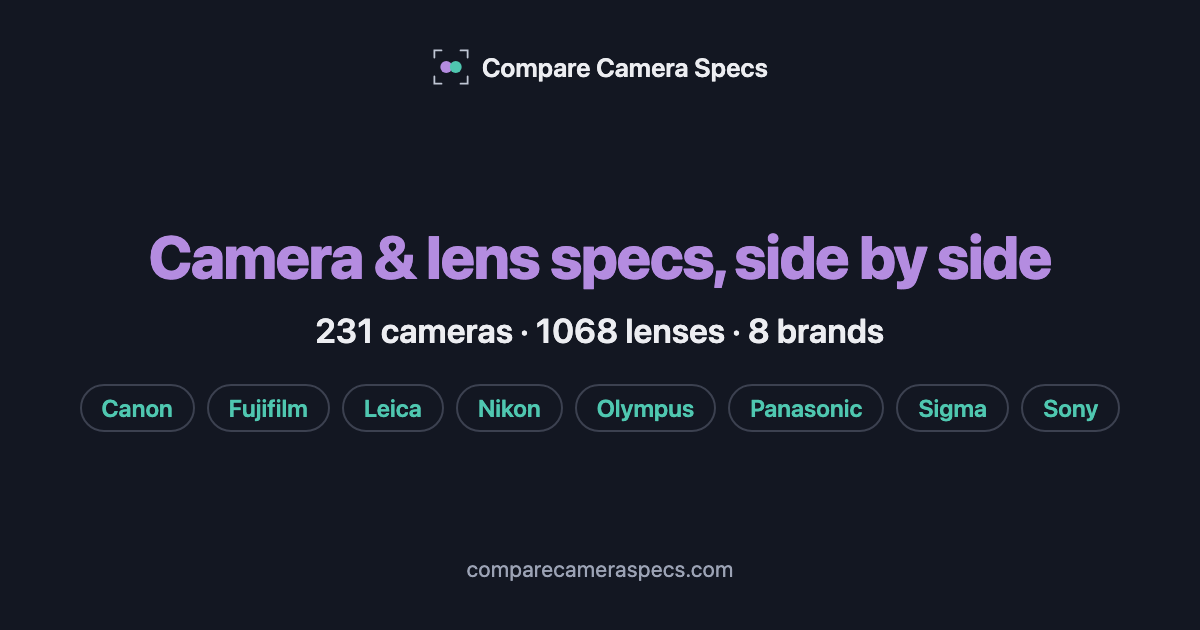
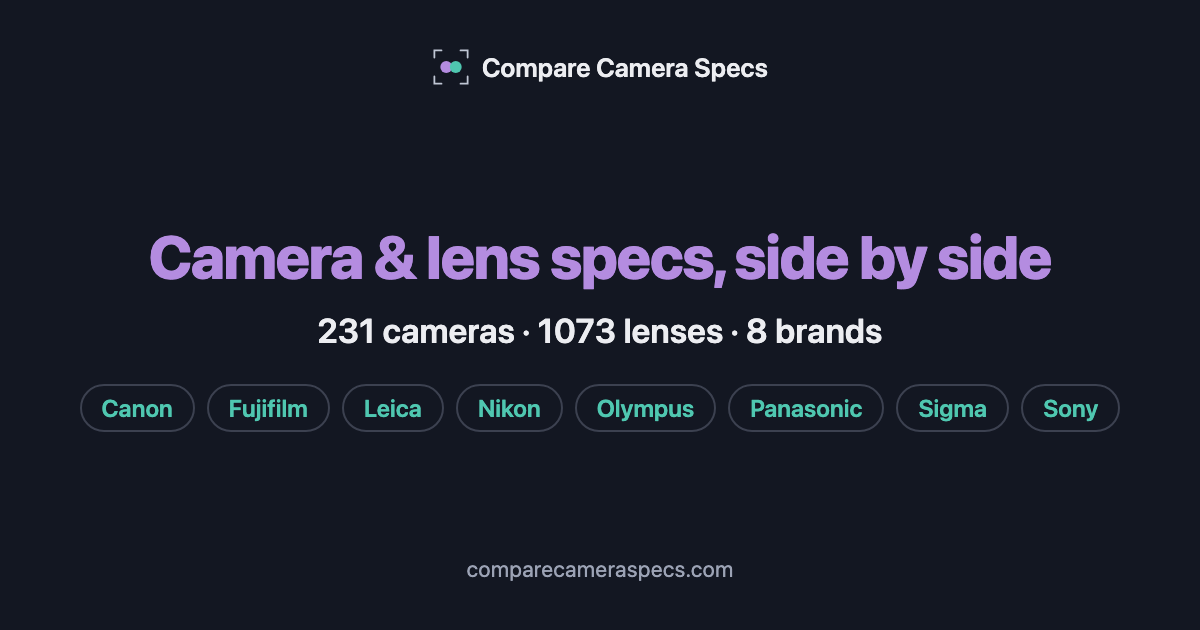
Nikon: add Voigtländer Nokton 75/1.5 + Classic 35/1.4 and Zeiss Otus ML Z
- Voigtländer Nokton 75mm f/1.5 and Nokton Classic 35mm f/1.4 (Z) from
  Cosina's EN Z-mount pages; USD from B&H.
- Zeiss Otus ML 35/50/85 (Z) from Zeiss's per-mount technical data;
  new Zeiss dropdown group; images gapped as on sony/.
- sony zeiss-otus-ml-35mm-f14: year 2025 -> 2026 (announced 2026-02-24).

Claude-Session: https://claude.ai/code/session_01FYKXhtYCHKNL3CJLW6oPDG

Changed region(s): [[0.2467, 0.4825, 0.74, 0.5429]]

diff --git a/nikon/data.js b/nikon/data.js
@@ -2897,6 +2897,87 @@ const LENSES = {
     priceIncomplete:true, productUrl:'https://www.cosina.co.jp/voigtlander/en/z-mount/portrait-heliar-75mm-f1-8/',
   },
 
+  'voigtlander-nokton-75mm-f15': {
+    name:'Voigtländer Nokton 75mm f/1.5 Aspherical Z', manufacturer:'Voigtländer', line:'Nokton', type:'Prime',
+    mount:'z', focalLength:75, focalLengthMin:null, focalLengthMax:null, focalLengthEquiv:'75mm',
+    maxAperture:1.5, minAperture:32, weight:530, length:75.9, diameter:74,
+    filterThread:62, minFocusDist:50, maxMagnification:0.21,
+    elements:7, groups:6, blades:12, afType:'Manual',
+    weatherSealed:false, ois:false, oisStops:null, year:2024, discontinued:false,
+    imageUrl:'https://www.cosina.co.jp/wp/wp-content/uploads/2024/04/Z-75_15-01-cfderw.jpg',
+    imageSource: { url:'https://www.cosina.co.jp/voigtlander/en/z-mount/nokton-75mm-f1-5-aspherical/', tier:'T1', title:'Cosina Voigtländer NOKTON 75mm F1.5 Aspherical (Z-mount)', note:'the page\'s first product shot (Z-75_15-01; the P00 file is a sample photo)', date:'2026-10-21' },
+    asin:null,
+    prices:{USD:899,AUD:null,EUR:null,GBP:null,JPY:null,CAD:null,SGD:null},
+    specSources: [{ url:'https://www.cosina.co.jp/voigtlander/en/z-mount/nokton-75mm-f1-5-aspherical/', tier:'T1', title:'Cosina Voigtländer NOKTON 75mm F1.5 Aspherical (Z-mount) - official page', note:'F1.5-F32, 7 elements in 6 groups, 12 blades, 0.5m, 1:4.8, φ74.0×75.9mm, φ62 filter, 530g, full frame, electrical contacts. Year from the page\'s image upload date (April 2024)', date:'2026-10-21' }],
+    priceSource: { url:'https://www.bhphotovideo.com/c/search?q=voigtlander%20nikon%20z', tier:'T3', title:'B&H Photo - Voigtländer Nikon Z search results', note:'"Nokton 75mm f/1.5 Aspherical Lens (Nikon Z)" $899, not on sale. Cosina publishes no US price; non-USD not examined', date:'2026-10-21' },
+    priceIncomplete:true, productUrl:'https://www.cosina.co.jp/voigtlander/en/z-mount/nokton-75mm-f1-5-aspherical/',
+  },
+
+  'voigtlander-nokton-classic-35mm-f14': {
+    name:'Voigtländer Nokton Classic 35mm f/1.4 Z', manufacturer:'Voigtländer', line:'Nokton', type:'Prime',
+    mount:'z', focalLength:35, focalLengthMin:null, focalLengthMax:null, focalLengthEquiv:'35mm',
+    maxAperture:1.4, minAperture:16, weight:250, length:41.6, diameter:67.6,
+    filterThread:58, minFocusDist:27, maxMagnification:0.18,
+    elements:8, groups:6, blades:10, afType:'Manual',
+    weatherSealed:false, ois:false, oisStops:null, year:2026, discontinued:false,
+    imageUrl:'https://www.cosina.co.jp/wp/wp-content/uploads/2026/06/Z-35_14-web01juwsd.jpg',
+    imageSource: { url:'https://www.cosina.co.jp/voigtlander/en/z-mount/nokton-classic-35mm-f1-4/', tier:'T1', title:'Cosina Voigtländer NOKTON classic 35mm F1.4 (Z-mount)', note:'the page\'s first product shot (Z-35_14-web01; the P00 file is a sample photo)', date:'2026-10-21' },
+    asin:null,
+    prices:{USD:699,AUD:null,EUR:null,GBP:null,JPY:null,CAD:null,SGD:null},
+    specSources: [{ url:'https://www.cosina.co.jp/voigtlander/en/z-mount/nokton-classic-35mm-f1-4/', tier:'T1', title:'Cosina Voigtländer NOKTON classic 35mm F1.4 (Z-mount) - official page', note:'F1.4-F16, 8 elements in 6 groups, 10 blades, 0.27m, 1:5.5, φ67.6×41.6mm, φ58 filter, 250g, full frame, electrical contacts. Year from the page\'s image upload date (June 2026)', date:'2026-10-21' }],
+    priceSource: { url:'https://www.bhphotovideo.com/c/search?q=voigtlander%20nikon%20z', tier:'T3', title:'B&H Photo - Voigtländer Nikon Z search results', note:'"Nokton Classic 35mm f/1.4 Lens (Nikon Z)" $699, not on sale. Cosina publishes no US price; non-USD not examined', date:'2026-10-21' },
+    priceIncomplete:true, productUrl:'https://www.cosina.co.jp/voigtlander/en/z-mount/nokton-classic-35mm-f1-4/',
+  },
+
+  /* ── Zeiss (native Z manual focus) ── */
+  'zeiss-otus-ml-35mm-f14': {
+    name:'Zeiss Otus ML 35mm f/1.4', manufacturer:'Zeiss', line:'Otus ML', type:'Prime',
+    mount:'z', focalLength:35, focalLengthMin:null, focalLengthMax:null, focalLengthEquiv:'35mm',
+    maxAperture:1.4, minAperture:16, weight:737, length:103, diameter:77,
+    filterThread:67, minFocusDist:30, maxMagnification:0.17,
+    elements:15, groups:11, blades:null, afType:'Manual',
+    weatherSealed:false, ois:false, oisStops:null, year:2026, discontinued:false,
+    imageUrl:null,
+    asin:null,
+    prices:{USD:2299,AUD:null,EUR:null,GBP:null,JPY:null,CAD:null,SGD:null},
+    specSources: [{ url:'https://www.zeiss.com/photonics-and-optics/us/photography/products/lenses-for-mirrorless-system-cameras/otus-ml-lenses.html', tier:'T1', title:'ZEISS Otus ML lenses - official Technical Data', note:'Otus ML 1.4/35 column: f/1.4-16, 15/11, focusing range from 0.30m, filter M67, diameter max. 77mm; Z: length without caps 103mm, weight 737g (E: 101mm / 698g); MOD ratio 1:5.72; weather sealing not stated (entered false); blade count not published. Year: announced 2026-02-24 (CP+ 2026), US availability April 2026', date:'2026-10-21' }],
+    priceSource: { url:'https://www.bhphotovideo.com/c/search?q=zeiss%20otus%20ml%20nikon%20z', tier:'T3', title:'B&H Photo - Zeiss Otus ML Nikon Z search results', note:'"Otus ML 35mm f/1.4 Lens (Nikon Z)" $2,299, not on sale. Zeiss has no US web store; non-USD not examined', date:'2026-10-21' },
+    priceIncomplete:true,
+    productUrl:'https://www.zeiss.com/photonics-and-optics/us/photography/products/lenses-for-mirrorless-system-cameras/otus-ml-lenses.html',
+  },
+
+  'zeiss-otus-ml-50mm-f14': {
+    name:'Zeiss Otus ML 50mm f/1.4', manufacturer:'Zeiss', line:'Otus ML', type:'Prime',
+    mount:'z', focalLength:50, focalLengthMin:null, focalLengthMax:null, focalLengthEquiv:'50mm',
+    maxAperture:1.4, minAperture:16, weight:718, length:102, diameter:77,
+    filterThread:67, minFocusDist:50, maxMagnification:0.14,
+    elements:14, groups:11, blades:null, afType:'Manual',
+    weatherSealed:false, ois:false, oisStops:null, year:2025, discontinued:false,
+    imageUrl:null,
+    asin:null,
+    prices:{USD:2499,AUD:null,EUR:null,GBP:null,JPY:null,CAD:null,SGD:null},
+    specSources: [{ url:'https://www.zeiss.com/photonics-and-optics/us/photography/products/lenses-for-mirrorless-system-cameras/otus-ml-lenses.html', tier:'T1', title:'ZEISS Otus ML lenses - official Technical Data', note:'Otus ML 1.4/50 column: f/1.4-16, 14/11, focusing range from 0.50m, filter M67, diameter max. 77mm; Z: length without caps 102mm, weight 718g (E: 100mm / 677g); MOD ratio 1:7.3; weather sealing not stated (entered false); blade count not published. Year: launch year', date:'2026-10-21' }],
+    priceSource: { url:'https://www.bhphotovideo.com/c/search?q=zeiss%20otus%20ml%20nikon%20z', tier:'T3', title:'B&H Photo - Zeiss Otus ML Nikon Z search results', note:'"Otus ML 50mm f/1.4 Lens (Nikon Z)" $2,499, not on sale. Zeiss has no US web store; non-USD not examined', date:'2026-10-21' },
+    priceIncomplete:true,
+    productUrl:'https://www.zeiss.com/photonics-and-optics/us/photography/products/lenses-for-mirrorless-system-cameras/otus-ml-lenses.html',
+  },
+
+  'zeiss-otus-ml-85mm-f14': {
+    name:'Zeiss Otus ML 85mm f/1.4', manufacturer:'Zeiss', line:'Otus ML', type:'Prime',
+    mount:'z', focalLength:85, focalLengthMin:null, focalLengthMax:null, focalLengthEquiv:'85mm',
+    maxAperture:1.4, minAperture:16, weight:1061, length:116, diameter:88,
+    filterThread:77, minFocusDist:80, maxMagnification:0.12,
+    elements:15, groups:11, blades:null, afType:'Manual',
+    weatherSealed:false, ois:false, oisStops:null, year:2025, discontinued:false,
+    imageUrl:null,
+    asin:null,
+    prices:{USD:2999,AUD:null,EUR:null,GBP:null,JPY:null,CAD:null,SGD:null},
+    specSources: [{ url:'https://www.zeiss.com/photonics-and-optics/us/photography/products/lenses-for-mirrorless-system-cameras/otus-ml-lenses.html', tier:'T1', title:'ZEISS Otus ML lenses - official Technical Data', note:'Otus ML 1.4/85 column: f/1.4-16, 15/11, focusing range from 0.80m, filter M77, diameter max. 88mm; Z: length without caps 116mm, weight 1061g (E: 113mm / 1033g); MOD ratio 1:8.1; weather sealing not stated (entered false); blade count not published. Year: launch year', date:'2026-10-21' }],
+    priceSource: { url:'https://www.bhphotovideo.com/c/search?q=zeiss%20otus%20ml%20nikon%20z', tier:'T3', title:'B&H Photo - Zeiss Otus ML Nikon Z search results', note:'"Otus ML 85mm f/1.4 Lens (Nikon Z)" $2,999, not on sale. Zeiss has no US web store; non-USD not examined', date:'2026-10-21' },
+    priceIncomplete:true,
+    productUrl:'https://www.zeiss.com/photonics-and-optics/us/photography/products/lenses-for-mirrorless-system-cameras/otus-ml-lenses.html',
+  },
+
   /* ── Other (Yongnuo AF + budget makers) ── */
   'yongnuo-35mm-f2': {
     name:'Yongnuo YN35mm f/2Z DF DSM', manufacturer:'Yongnuo', line:'DF DSM', type:'Prime',
@@ -3498,7 +3579,8 @@ const LENS_DROPDOWN_GROUPS = [
   { label: '── Sigma ──', ids: ['sigma-16mm-f14', 'sigma-30mm-f14', 'sigma-56mm-f14'] },
   { label: '── Viltrox ──', ids: ['viltrox-13mm-f14', 'viltrox-16mm-f18', 'viltrox-27mm-f12', 'viltrox-33mm-f14', 'viltrox-56mm-f14', 'viltrox-85mm-f18-ii', 'viltrox-85mm-f20-evo', 'viltrox-85mm-f14-pro', 'viltrox-24mm-f18', 'viltrox-35mm-f18-evo', 'viltrox-40mm-f25-air', 'viltrox-90mm-f22-evo', 'viltrox-75mm-f18-evo', 'viltrox-56mm-f12-pro', 'viltrox-9mm-f28-air', 'viltrox-15mm-f17-air', 'viltrox-25mm-f17-air', 'viltrox-35mm-f17-air', 'viltrox-23mm-f14', 'viltrox-75mm-f12-pro', 'viltrox-56mm-f17-air', 'viltrox-26mm-f28-evo', 'viltrox-55mm-f18-evo', 'viltrox-50mm-f14-pro', 'viltrox-35mm-f12-lab', 'viltrox-135mm-f18-lab', 'viltrox-14mm-f4-air', 'viltrox-28mm-f45', 'viltrox-50mm-f2-air', 'viltrox-20mm-f28-air', 'viltrox-28mm-f18', 'viltrox-20mm-f18-mf'] },
   { label: '── Tamron ──', ids: ['tamron-12-20mm-f28', 'tamron-16-30mm-f28-g2', 'tamron-17-70mm-f28', 'tamron-18-300mm-f35-63', 'tamron-20-40mm-f28', 'tamron-28-75mm-f28-g2', 'tamron-35-100mm-f28', 'tamron-35-150mm-f2-28', 'tamron-50-400mm-f45-63', 'tamron-70-180mm-f28-g2', 'tamron-70-300mm-f45-63', 'tamron-90mm-f28-macro', 'tamron-150-500mm-f5-67'] },
-  { label: '── Voigtländer ──', ids: ['voigtlander-apo-lanthar-50mm-f2', 'voigtlander-nokton-40mm-f12', 'voigtlander-super-wide-heliar-15mm-f45', 'voigtlander-nokton-d23mm-f12', 'voigtlander-nokton-28mm-f15', 'voigtlander-apo-lanthar-28mm-f2', 'voigtlander-nokton-d35mm-f12', 'voigtlander-macro-apo-ultron-d35mm-f2', 'voigtlander-apo-lanthar-35mm-f2', 'voigtlander-septon-40mm-f2', 'voigtlander-nokton-50mm-f10', 'voigtlander-macro-apo-lanthar-65mm-f2', 'voigtlander-portrait-heliar-75mm-f18'] },
+  { label: '── Voigtländer ──', ids: ['voigtlander-apo-lanthar-50mm-f2', 'voigtlander-nokton-40mm-f12', 'voigtlander-super-wide-heliar-15mm-f45', 'voigtlander-nokton-d23mm-f12', 'voigtlander-nokton-28mm-f15', 'voigtlander-apo-lanthar-28mm-f2', 'voigtlander-nokton-d35mm-f12', 'voigtlander-macro-apo-ultron-d35mm-f2', 'voigtlander-apo-lanthar-35mm-f2', 'voigtlander-septon-40mm-f2', 'voigtlander-nokton-50mm-f10', 'voigtlander-macro-apo-lanthar-65mm-f2', 'voigtlander-portrait-heliar-75mm-f18', 'voigtlander-nokton-classic-35mm-f14', 'voigtlander-nokton-75mm-f15'] },
+  { label: '── Zeiss ──', ids: ['zeiss-otus-ml-35mm-f14', 'zeiss-otus-ml-50mm-f14', 'zeiss-otus-ml-85mm-f14'] },
   { label: '── Laowa ──', ids: ['laowa-10mm-f4-cookie', 'laowa-10mm-f28-af', 'laowa-12mm-f28-lite-zero-d', 'laowa-15mm-f2', 'laowa-15mm-f45-macro', 'laowa-15mm-f5-cookie', 'laowa-15mm-f45-shift', 'laowa-17mm-f4-tilt-shift', 'laowa-20mm-f4-shift', 'laowa-25mm-f28-25-5x-macro', 'laowa-35mm-f28-tilt-shift-macro', 'laowa-55mm-f28-tilt-shift-macro', 'laowa-58mm-f28-2x-macro', 'laowa-65mm-f28-2x-macro', 'laowa-85mm-f56-2x-macro', 'laowa-90mm-f28-macro', 'laowa-100mm-f28-2x-macro', 'laowa-100mm-f28-tilt-shift-macro', 'laowa-argus-28mm-f12', 'laowa-argus-33mm-f095', 'laowa-8-15mm-f28-fisheye', 'laowa-8-16mm-f35-5', 'laowa-10-18mm-f45-56', 'laowa-12-24mm-f56-shift', 'laowa-aksen-45mm-f28', 'laowa-aksen-17-5mm-f17', 'laowa-4-5-10mm-f28-fisheye', 'laowa-200mm-f2-af', 'laowa-180mm-f45-macro', 'laowa-11mm-f45-rl', 'laowa-14mm-f4-rl', 'laowa-9mm-f56-rl', 'laowa-argus-35mm-f095', 'laowa-argus-45mm-f095', 'laowa-9mm-f28', 'laowa-12-24mm-f56', 'laowa-4mm-f28-fisheye', 'laowa-argus-25mm-f095'] },
   { label: '── Samyang ──', ids: ['samyang-14mm-f28', 'samyang-85mm-f14'] },
   { label: '── Other ──', ids: ['yongnuo-11mm-f18', 'yongnuo-23mm-f14', 'yongnuo-33mm-f14', 'yongnuo-35mm-f18', 'yongnuo-35mm-f2', 'yongnuo-50mm-f18-da', 'yongnuo-50mm-f18', 'yongnuo-56mm-f14', 'yongnuo-85mm-f18', 'ttartisan-27mm-f28', 'ttartisan-17mm-f18-air', 'ttartisan-23mm-f18', 'ttartisan-35mm-f18-ii', 'ttartisan-40mm-f2', 'ttartisan-50mm-f18-neo', 'ttartisan-56mm-f18', 'ttartisan-75mm-f2', 'ttartisan-85mm-f18-neo', '7artisans-27mm-f28', '7artisans-10mm-f28', '7artisans-25mm-f18-lite', '7artisans-35mm-f18-lite', '7artisans-50mm-f18-lite', '7artisans-35mm-f18', '7artisans-40mm-f25-lite', '7artisans-50mm-f18', '7artisans-85mm-f18', 'meike-24mm-f14', 'meike-35mm-f18-pro', 'meike-50mm-f18', 'meike-85mm-f18', 'meike-85mm-f18-pro', 'meike-85mm-f18-se-ii'] },

diff --git a/nikon/index.html b/nikon/index.html
@@ -5,17 +5,17 @@
   <meta name="viewport" content="width=device-width, initial-scale=1.0">
   <title>Nikon Z Camera &amp; Lens Comparison</title>
   <!-- seo:begin (generated by scripts/generate-seo.js — do not edit by hand) -->
-  <meta name="description" content="Compare 16 Nikon cameras and 183 lenses side by side — price, sensor, autofocus, stabilization and video, in 7 currencies.">
+  <meta name="description" content="Compare 16 Nikon cameras and 188 lenses side by side — price, sensor, autofocus, stabilization and video, in 7 currencies.">
   <link rel="canonical" href="https://comparecameraspecs.com/nikon/">
   <meta property="og:type" content="website">
   <meta property="og:site_name" content="Compare Camera Specs">
   <meta property="og:title" content="Nikon Camera &amp; Lens Comparison">
-  <meta property="og:description" content="Compare 16 Nikon cameras and 183 lenses side by side — price, sensor, autofocus, stabilization and video, in 7 currencies.">
+  <meta property="og:description" content="Compare 16 Nikon cameras and 188 lenses side by side — price, sensor, autofocus, stabilization and video, in 7 currencies.">
   <meta property="og:url" content="https://comparecameraspecs.com/nikon/">
   <meta property="og:image" content="https://comparecameraspecs.com/og/nikon.png">
   <meta property="og:image:width" content="1200">
   <meta property="og:image:height" content="630">
-  <meta property="og:image:alt" content="Nikon: compare 16 cameras and 183 lenses side by side">
+  <meta property="og:image:alt" content="Nikon: compare 16 cameras and 188 lenses side by side">
   <meta name="twitter:card" content="summary_large_image">
   <meta name="twitter:image" content="https://comparecameraspecs.com/og/nikon.png">
   <script>
@@ -63,7 +63,7 @@
   <!-- seo:body:begin (generated by scripts/generate-seo.js — do not edit by hand) -->
   <section class="seo-links" aria-label="Popular Nikon comparisons">
     <h2>Popular Nikon camera comparisons</h2>
-    <p>Compare all 16 Nikon cameras and 183 lenses side by side — price, sensor, autofocus, stabilization and video, in seven currencies. Popular head-to-head comparisons:</p>
+    <p>Compare all 16 Nikon cameras and 188 lenses side by side — price, sensor, autofocus, stabilization and video, in seven currencies. Popular head-to-head comparisons:</p>
     <ul>
       <li><a href="vs/z6-iii-vs-z6-ii">Nikon Z6 III vs Z6 II</a></li>
       <li><a href="vs/z6-ii-vs-z6">Nikon Z6 II vs Z6</a></li>

diff --git a/sony/data.js b/sony/data.js
@@ -4270,11 +4270,11 @@ const LENSES = {
     maxAperture:1.4, minAperture:16, weight:698, length:101, diameter:77,
     filterThread:67, minFocusDist:30, maxMagnification:0.17,
     elements:15, groups:11, blades:null, afType:'Manual',
-    weatherSealed:false, ois:false, oisStops:null, year:2025, discontinued:false,
+    weatherSealed:false, ois:false, oisStops:null, year:2026, discontinued:false,
     imageUrl:null,
     asin:null,
     prices:{USD:2299,AUD:null,EUR:null,GBP:null,JPY:null,CAD:null,SGD:null},
-    specSources: [{ url:'https://www.zeiss.com/photonics-and-optics/us/photography/products/lenses-for-mirrorless-system-cameras/otus-ml-lenses.html', tier:'T1', title:'ZEISS Otus ML lenses - official Technical Data', note:'Zeiss Otus ML 35mm f/1.4 column: f/1.4-16, 15/11, focusing range from 0.3m, filter M67, diameter max. 77mm, length without caps 101mm, 698g. E column: 101mm long without caps, 698g; MOD ratio 1:5.72; weather sealing not stated (entered false). Blade count not published. Year: launch year', date:'2026-10-21' }],
+    specSources: [{ url:'https://www.zeiss.com/photonics-and-optics/us/photography/products/lenses-for-mirrorless-system-cameras/otus-ml-lenses.html', tier:'T1', title:'ZEISS Otus ML lenses - official Technical Data', note:'Zeiss Otus ML 35mm f/1.4 column: f/1.4-16, 15/11, focusing range from 0.3m, filter M67, diameter max. 77mm, length without caps 101mm, 698g. E column: 101mm long without caps, 698g; MOD ratio 1:5.72; weather sealing not stated (entered false). Blade count not published. Year: announced 2026-02-24 (CP+ 2026), US availability April 2026 (was 2025 until 2026-10-21)', date:'2026-10-21' }],
     priceSource: { url:'https://www.bhphotovideo.com/c/search?q=zeiss%20otus%20ml%20sony%20e', tier:'T3', title:'B&H Photo - Zeiss Sony E search results', note:'B&H price $2299 (not on sale). Zeiss has no US web store; non-USD not examined', date:'2026-10-21' },
     priceIncomplete:true,
     productUrl:'https://www.zeiss.com/photonics-and-optics/us/photography/products/lenses-for-mirrorless-system-cameras/otus-ml-lenses.html',

diff --git a/tests/data/links-offline.test.js b/tests/data/links-offline.test.js
@@ -65,6 +65,7 @@ const KNOWN_SHARED_LINKS = new Map([
   ['sony productUrl https://www.zeiss.com/photonics-and-optics/us/photography/products/lenses-for-mirrorless-system-cameras/batis-lenses.html', 5],
   ['sony productUrl https://www.zeiss.com/photonics-and-optics/us/photography/products/lenses-for-mirrorless-system-cameras/touit-lenses.html', 3],
   ['sony productUrl https://www.zeiss.com/photonics-and-optics/us/photography/products/lenses-for-mirrorless-system-cameras/otus-ml-lenses.html', 3],
+  ['nikon productUrl https://www.zeiss.com/photonics-and-optics/us/photography/products/lenses-for-mirrorless-system-cameras/otus-ml-lenses.html', 3],
   // 7Artisans sells the 25/35/50mm f/1.8 Lite trio as ONE listing with mount and
   // focal-length variants; the photo is the maker's official family shot showing
   // all three barrels. Verified visually 2026-09-07.
@@ -181,8 +182,8 @@ const KNOWN_SHARED_LINKS = new Map([
 // +35 Laowa, +13 Voigtländer, +9 Zeiss (8 new + Batis 85, now current again),
 // +19 TTArtisan, +28 7Artisans, +12 Meike, +13 Thypoch/SG-image.
 // Nikon missing-lens pass (add-nikon-missing-thirdparty-lenses, 2026-10-21+),
-// same approach: +1 Tamron, +14 Laowa.
-const ASIN_GAP_BASELINE = 286;
+// same approach: +1 Tamron, +14 Laowa, +2 Voigtländer, +3 Zeiss.
+const ASIN_GAP_BASELINE = 291;
 
 const allItems = () => brandDirs().flatMap(brand => {
   const { data } = loadBrand(brand);

diff --git a/index.html b/index.html
@@ -88,7 +88,7 @@
   <meta property="og:image" content="https://comparecameraspecs.com/og/home.png">
   <meta property="og:image:width" content="1200">
   <meta property="og:image:height" content="630">
-  <meta property="og:image:alt" content="Compare 231 cameras and 1068 lenses from 8 brands side by side">
+  <meta property="og:image:alt" content="Compare 231 cameras and 1073 lenses from 8 brands side by side">
   <meta name="twitter:card" content="summary_large_image">
   <meta name="twitter:image" content="https://comparecameraspecs.com/og/home.png">
   <script>
@@ -214,7 +214,7 @@
             <div class="brand-card-body">
               <div class="brand-name">Nikon</div>
               <div class="brand-mount">Z-Mount</div>
-              <div class="brand-count">16 cameras · 183 lenses</div>
+              <div class="brand-count">16 cameras · 188 lenses</div>
               <div class="brand-go">Compare &rarr;</div>
             </div>
           </a>

diff --git a/tests/data/completeness.test.js b/tests/data/completeness.test.js
@@ -220,6 +220,9 @@ const KNOWN_IMAGE_GAPS = {
     // (Nikon missing-lens pass); as on sony/, the RL galleries show only the
     // Leica M barrel (11mm: one shot of the Z and E versions side by side).
     'laowa-11mm-f45-rl', 'laowa-14mm-f4-rl', 'laowa-9mm-f56-rl',
+    // Zeiss Otus ML 35/50/85 (Z): added 2026-10-21; as on sony/, Zeiss shows only
+    // family shots and Commons has nothing.
+    'zeiss-otus-ml-35mm-f14', 'zeiss-otus-ml-50mm-f14', 'zeiss-otus-ml-85mm-f14',
     // Cameras: all 10 resolved 2026-08-15 (Commons photos sourced + applied).
     // Lenses — re-run 2026-08-15 (Nikon+Panasonic lens image pass): z-dx-16-50mm-vr
     // and viltrox-27mm-f12 resolved and removed from this list.

diff --git a/about.html b/about.html
@@ -15,7 +15,7 @@
   <meta property="og:image" content="https://comparecameraspecs.com/og/home.png">
   <meta property="og:image:width" content="1200">
   <meta property="og:image:height" content="630">
-  <meta property="og:image:alt" content="Compare 231 cameras and 1068 lenses from 8 brands side by side">
+  <meta property="og:image:alt" content="Compare 231 cameras and 1073 lenses from 8 brands side by side">
   <meta name="twitter:card" content="summary_large_image">
   <meta name="twitter:image" content="https://comparecameraspecs.com/og/home.png">
   <script>

diff --git a/privacy.html b/privacy.html
@@ -15,7 +15,7 @@
   <meta property="og:image" content="https://comparecameraspecs.com/og/home.png">
   <meta property="og:image:width" content="1200">
   <meta property="og:image:height" content="630">
-  <meta property="og:image:alt" content="Compare 231 cameras and 1068 lenses from 8 brands side by side">
+  <meta property="og:image:alt" content="Compare 231 cameras and 1073 lenses from 8 brands side by side">
   <meta name="twitter:card" content="summary_large_image">
   <meta name="twitter:image" content="https://comparecameraspecs.com/og/home.png">
   <script>

diff --git a/openspec/changes/add-nikon-missing-thirdparty-lenses/PROGRESS.md b/openspec/changes/add-nikon-missing-thirdparty-lenses/PROGRESS.md
@@ -1,6 +1,7 @@
 # Progress — Nikon missing third-party lenses
 
-**Resume at:** 2.3 Voigtländer + Zeiss
+**Resume at:** 2.4 TTArtisan
+**Voigtländer + Zeiss done 2026-10-21 (5 lenses):** Nokton 75mm f/1.5 and Nokton Classic 35mm f/1.4 (Cosina EN Z pages; B&H prices $899 / $699; existing 13 Nikon Voigtländer USD prices all still match B&H regular). Zeiss Otus ML 35/50/85 Z from zeiss.com's per-mount Technical Data (Z is 2-3mm longer and 20-40g heavier than E); B&H $2,299 / $2,499 / $2,999; images gapped as on sony/. Also fixed sony zeiss-otus-ml-35mm-f14 year 2025 -> 2026 (announced 2026-02-24).
 **Laowa done 2026-10-21 (14 lenses):** Aksen 45 / 17.5, 4.5-10 CF fisheye, 200 f/2 AF, 180 1.5X macro, RL 9/11/14, Argus 25 CF APO / 35 / 45, 9mm f/2.8 Zero-D, 12-24 f/5.6 Zoom, 4mm fisheye. Shared optics cloned from the Sony entries; Z-specific figures where Laowa gives them (200mm 176.8mm long, 12-24 95.6mm), B&H Nikon Z listings for the rest (180mm Z 134.4mm / 522g; RL 11 Z matches Laowa's single figure). USD = venuslens Nikon Z variation regular price. Argus 25 isn't on Laowa's US store: specs from laowa.com.au + B&H Z listing (match), USD = B&H regular $549. Images reuse the Sony entries' shots (as the existing Nikon Laowa entries do); RL 9/11/14 gapped as on sony/.
 **Viltrox + Tamron done 2026-10-21:** Viltrox's "missing" AF 27mm f/1.2 Pro was already in the data (`viltrox-27mm-f12`, productUrl null) but held the Sony E column's 560g / 92mm; corrected to the Z column (605g / 94mm) and given its Z store page + sources. Tamron 20-40mm f/2.8 (A062) Z added from tamron.com's per-mount spec table ($729, on sale 2026-10-22).
 **Branch:** canon-sony-lens-refresh (local csr-continue, worktree refresh-camera-data-sep2026); same PR as Canon/Sony (#78)
@@ -28,7 +29,8 @@ Makers' store catalogues (Shopify `products.json`, venuslens Woo Store API, Cosi
 | Maker | Candidates | Entered | Skipped | Committed |
 |---|---|---|---|---|
 | Viltrox + Tamron | 2 | 1 (+1 fixed) | 0 | 859674a |
-| Laowa | 16 | 14 | 2 | (this commit) |
+| Laowa | 16 | 14 | 2 | 7f2a8ca |
+| Voigtländer + Zeiss | 5 | 5 | 0 | (this commit) |
 
 ## Skipped (with reason)
 - Laowa ACRIS 35mm f/2.8 1X Macro (Z AF version, $449, 570g): Laowa gives dimensions for EF only and B&H's Z listing has none — Z length unknown.

diff --git a/openspec/changes/add-nikon-missing-thirdparty-lenses/tasks.md b/openspec/changes/add-nikon-missing-thirdparty-lenses/tasks.md
@@ -6,7 +6,7 @@
 
 - [x] 2.1 Viltrox + Tamron
 - [x] 2.2 Laowa
-- [ ] 2.3 Voigtländer + Zeiss
+- [x] 2.3 Voigtländer + Zeiss
 - [ ] 2.4 TTArtisan
 - [ ] 2.5 7Artisans
 - [ ] 2.6 Meike
